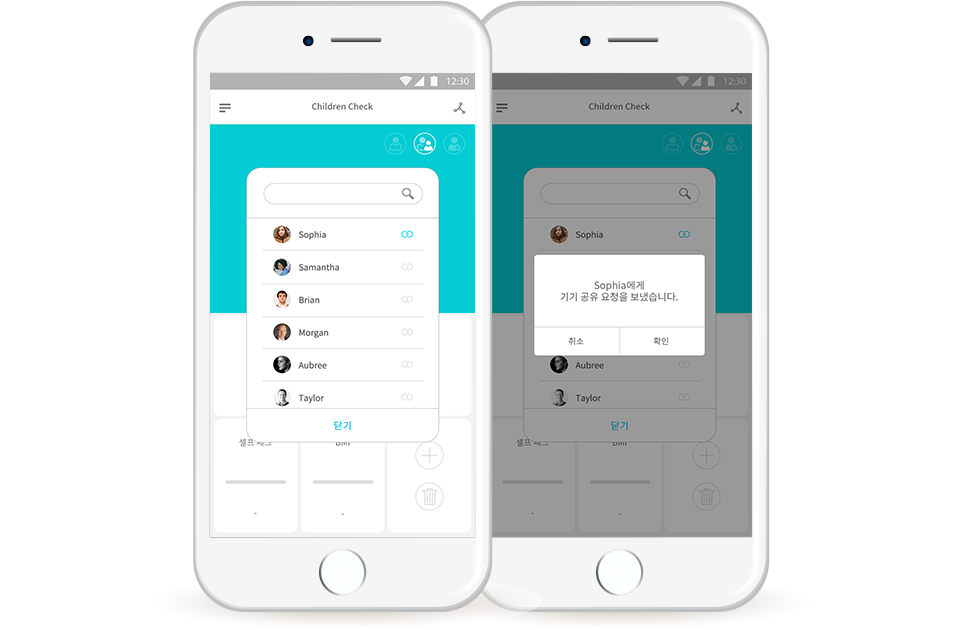
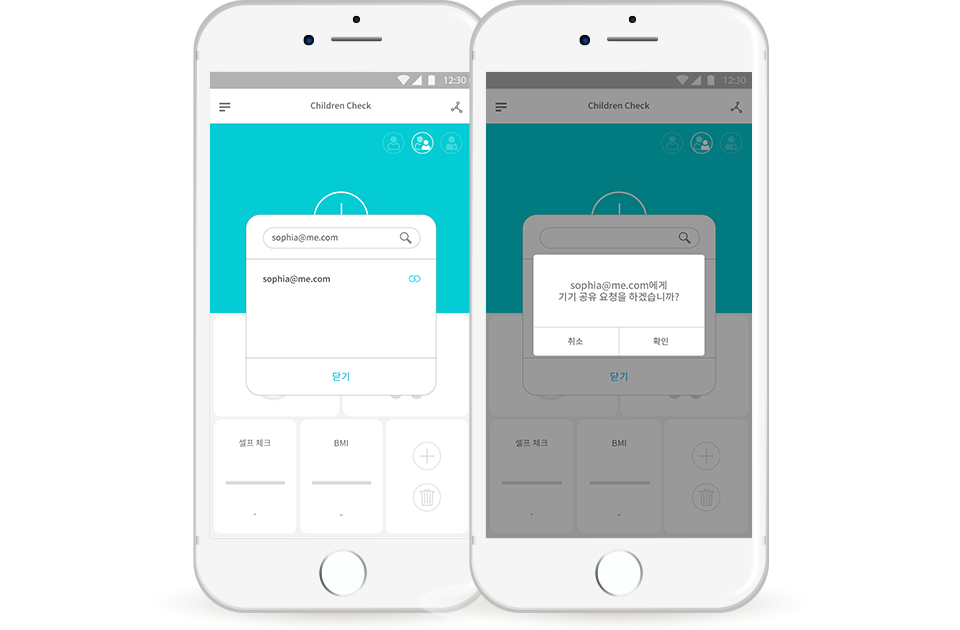
렌더링 이미지 교체 및 한글버전 작업

diff --git a/phyctogramWeb/src/main/webapp/resources/res2/css/main.css b/phyctogramWeb/src/main/webapp/resources/res2/css/main.css
@@ -13601,7 +13601,7 @@ html:not(.has-smooth-scroll) .is-ios .c-article-navigation {
 .bg-grey .icon {margin-bottom: 1.625em}
 
 .app .col-6 {height: 800px}
-.app_img {width: 100%; position: relative; top: 50%; margin-top: -25%}
+.app_img {width: 100%; position: relative; top: 50%; margin-top: -33%}
 .icon {margin: 0 auto; display: block; margin-top: 10em}
 .ic01 {background: url(../img/contact_01.jpg) no-repeat; padding-left: 1.5em}
 .ic02 {background: url(../img/contact_02.jpg) no-repeat; padding-left: 1.5em}
